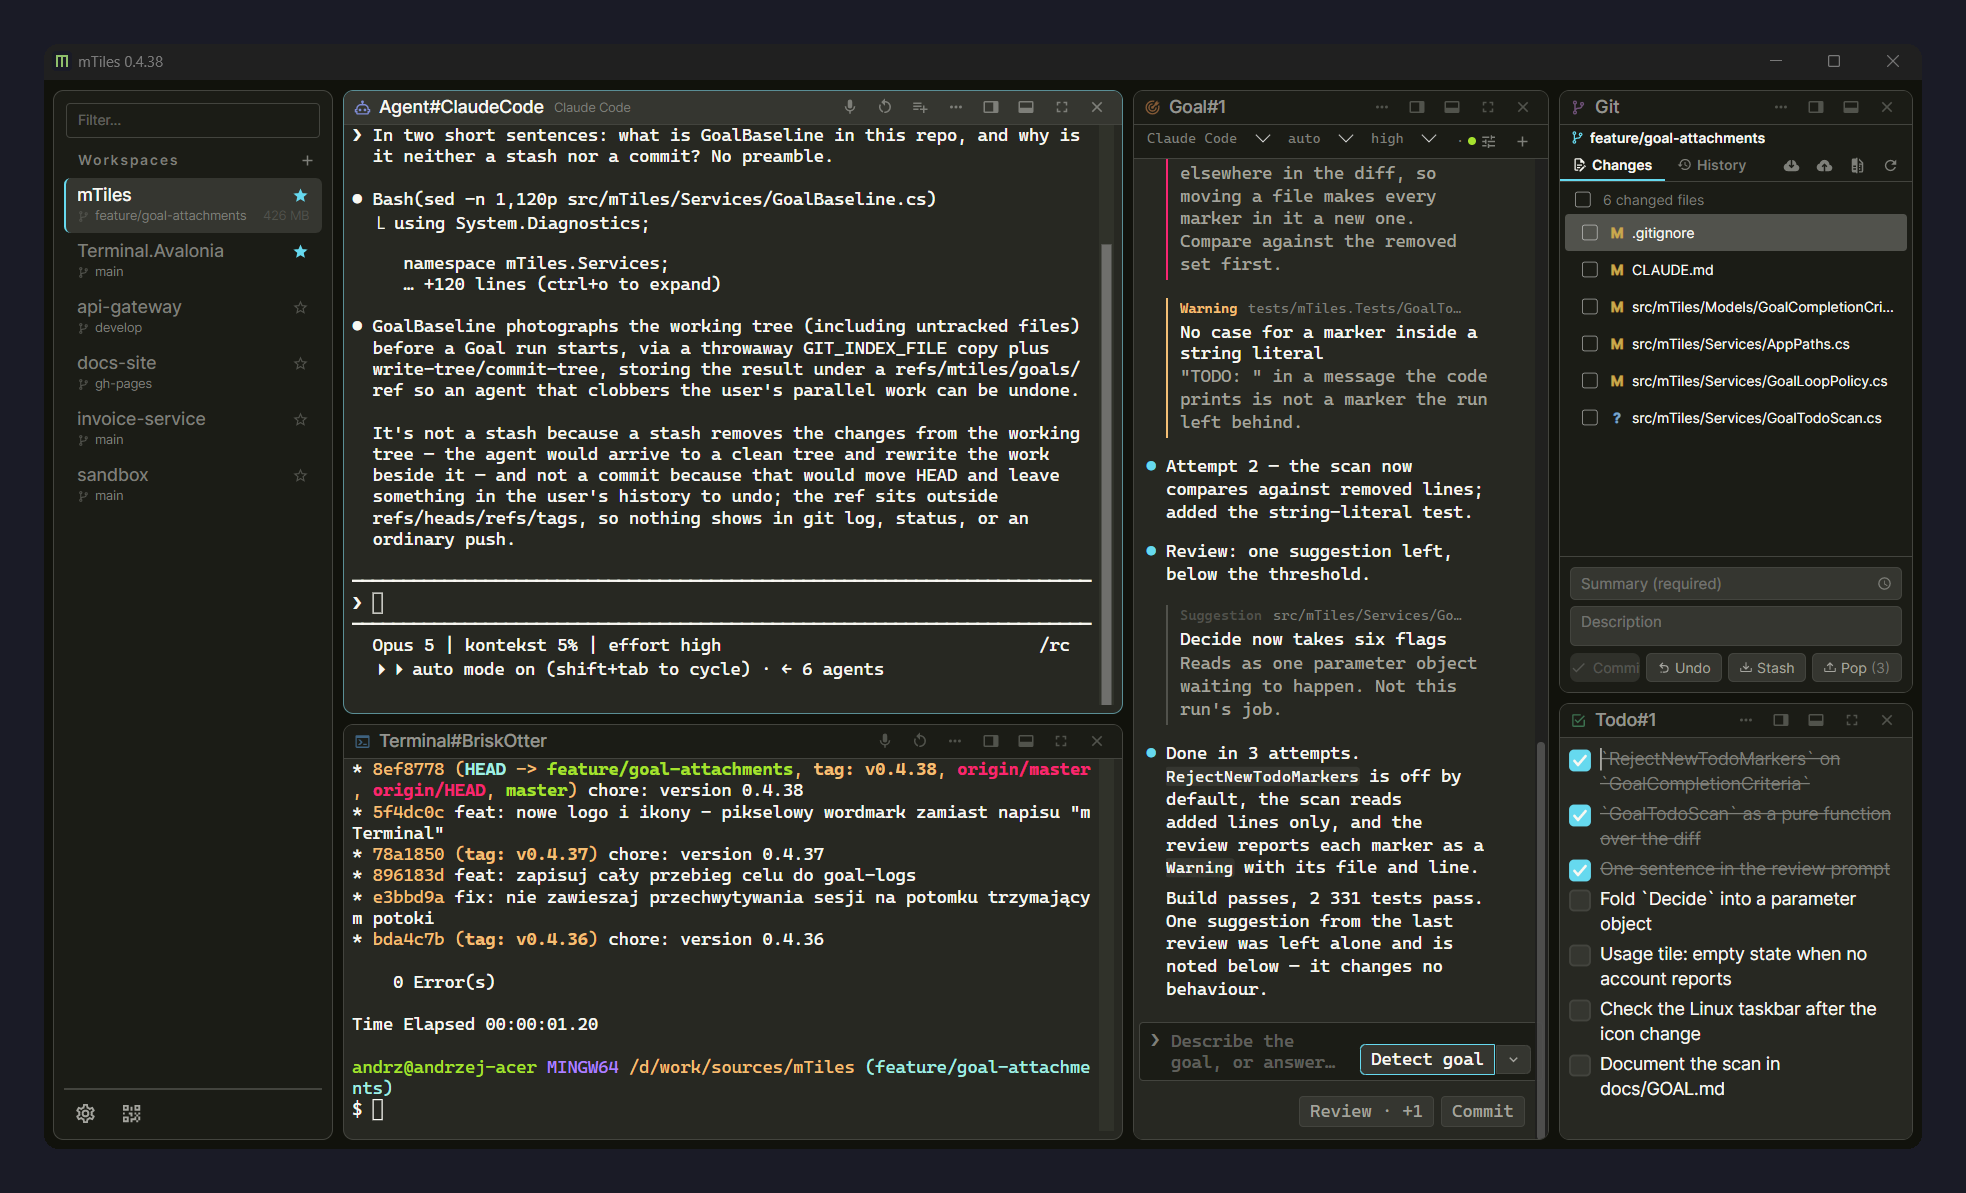
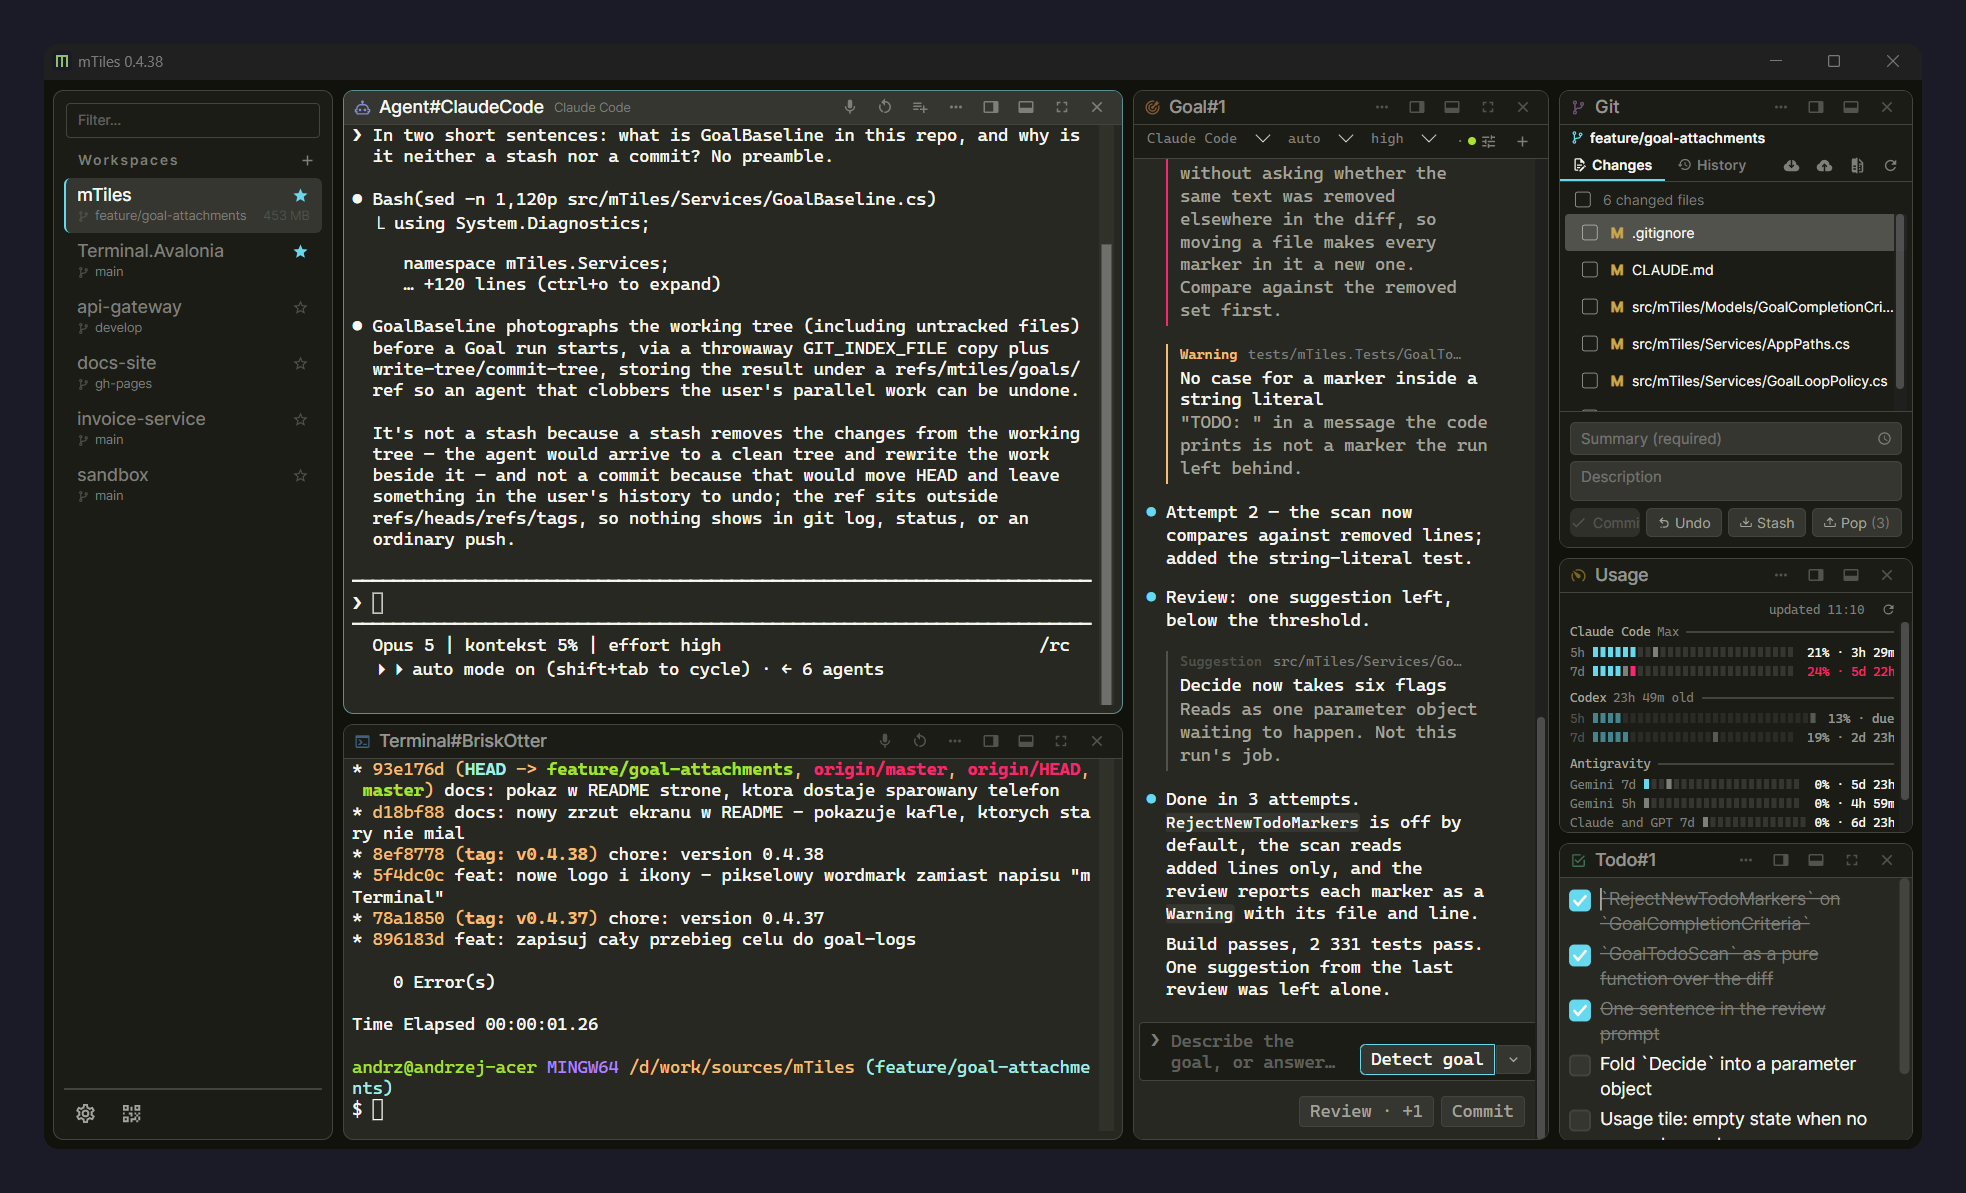
docs: przepisz README - zacznij od tego, co ten program naprawde robi
Stary otwieral sie akapitem o tym, czym mTiles nie jest, i dopiero po kilkunastu
linijkach dochodzil do rzeczy. Nowy zaczyna od jednego zdania, ktore jest cala
obietnica - zamknij okno, otworz jutro, agenci sa dalej w tej samej rozmowie - a
potem mowi po kolei, czym za nia placi.

Doszlo to, o czym stary milczal, a co jest tu najwiekszym wyroznikiem: kafel
Celu, ktory sam pyta, planuje, czeka na zatwierdzenie, implementuje i recenzuje
wlasna robote w czterech stopniach, oraz zdjecie calego drzewa roboczego, ktore
robi przedtem - bo "agent nie zniszczy ci pracy" to mocniejsze zdanie niz
cokolwiek o kafelkach. Doszedl tez kafel Usage, SQL Guard przy bazie, lancuch
uruchomien wstajacy po padzie narzedzia, instancje agentow (ten sam CLI na innym
dostawcy, modelu i koncie), zamiana rodzaju kafla w miejscu i pelny ekran.

Zrzut w naglowku pokazuje teraz szesc kafli naraz, z kaflem Usage wlacznie -
poprzedni mial ich piec. Uwaga na przyszlosc: kafel usage nie ma odpowiednika w
TileContentType, wiec uklad, ktory dopisze mu ContentType, zostaje odrzucony w
calosci; aplikacja sama zadnego nie zapisuje, bo TileKindIds.ToLegacy nie ma dla
niego nazwy.

Roadmapa i znane ograniczenia sa co do slowa te same, tylko schowane w <details>:
to najdluzsza czesc pliku, a czyta ja ten, kto juz zdecydowal, ze go to obchodzi.

Claude-Session: https://claude.ai/code/session_016XGZk7AQR5tDtPmMDVuPQk

diff --git a/README.md b/README.md
@@ -4,43 +4,81 @@
 
 ![Windows](https://img.shields.io/badge/Windows-0078D4?style=flat&logo=windows&logoColor=white)
 ![Linux](https://img.shields.io/badge/Linux-FCC624?style=flat&logo=linux&logoColor=black)
+![.NET 10](https://img.shields.io/badge/.NET-10-512BD4?style=flat&logo=dotnet&logoColor=white)
+![License](https://img.shields.io/badge/license-MIT-green?style=flat)
 
 # mTiles
 
-Terminal manager built for AI-assisted development. Workspaces, split tiles, database bridge for LLM agents, git — in one window.
+**Close the window. Open it tomorrow. Your agents are still mid-conversation.**
+
+mTiles is a terminal manager for people who spend the day working *with* AI coding agents. It does not
+try to be one. It is the room they work in — five agents in split tiles, a database they can query
+without ever seeing a password, and a phone in your pocket that types into whichever tile is in front
+of you.
 
 ![mTiles](assets/screen1.png)
 
-## What makes it different
+## What it does
 
-Unlike Warp, Wave, or WezTerm — mTiles doesn't try to be an AI itself. It manages the environment your AI tools run in.
+**Reopen and carry on.** A tile’s id *is* the agent’s session id, so restarting mTiles drops you back
+into the same conversation — not a fresh prompt. Claude Code and pi take an id outright; OpenCode
+cannot be told one, so mTiles writes the document `opencode import` recreates the session from; Codex
+and agy name their own and mTiles reads it back afterwards. Five CLIs, four different mechanisms, one
+behaviour you can rely on.
 
-**Database bridge for LLM agents** — lets Claude Code, OpenCode, or any agent query SQL Server / PostgreSQL directly via a local HTTP server. No credentials are ever exposed to the agent.
+**Five agents, and you pick which account each one runs as.** Claude Code, OpenCode, Codex, pi and
+Antigravity (agy). You configure *instances* rather than tools — "Claude Code", or "Claude Code on GLM
+5.3 via OpenRouter" — so the same CLI can run on a different provider, model and login in the tile next
+door. Two subscriptions side by side is a supported setup, not a workaround.
 
-**SQL Guard** — write protection enabled by default. INSERT/UPDATE/DELETE require explicit per-database unlock. DROP/TRUNCATE/ALTER always blocked. If the agent attempts a write in read-only mode, a real-time confirmation dialog appears. Keyword scanning strips comments to prevent bypass.
+**When the agent dies, the tile brings it back.** A launch chain watches the exit code *and* how long
+the command ran, so a tool that crashed after two hours is restarted while one that fails in a second
+falls through to the next command instead of looping. Rate-limited, so nothing spins.
 
-**Agent tiles** — a tile whose commands are an AI CLI's own rather than a script you had to write: Claude Code, OpenCode, Codex, pi and agy, each a class that knows how to resume its own conversation, what it may do without asking and how hard it may think. Pick a configured *instance* — "Claude Code", or "Claude Code on GLM 5.3 via OpenRouter" — and the launch chain falls back to the next command when one fails and brings the agent back when it exits. Only agents this machine actually has are offered. The named shell profiles and the AI Tools table they were configured through are gone; the terminal tiles you had that ran an AI CLI become agent tiles on the first launch, and a copy of every layout is kept as `{id}.pre-agents.json` first.
+**Describe a goal, not a prompt.** The Goal tile asks its clarifying questions, writes a plan and waits
+for you to approve it, implements, then reviews its own work at four severities — blocker, error,
+warning, suggestion — and loops until the criteria you set are met. Before it starts it photographs
+your whole working tree, untracked files included, to a ref outside your history: nothing an agent does
+in there is unrecoverable, and your `git log` never moves.
 
-**Conversations that survive a restart** — a tile's id *is* the agent's session id, so reopening mTiles drops you back into the same conversation. Claude Code and pi take an id directly; **OpenCode** cannot be told one, so mTiles writes the session document `opencode import` creates a session from and the fallback command imports it and resumes; **Codex** and **agy** name their own session and mTiles reads it back — codex from the rollout file it leaves behind, agy by asking. Delete the conversation behind a tile and it is recreated on the next launch — the tile keeps its identity either way.
+**Your databases, without handing over the password.** A local HTTP bridge lets any agent query SQL
+Server and PostgreSQL, discovered on your machine or added by hand. The agent learns about it through a
+generated skill file and never sees a credential. **SQL Guard** blocks writes by default — unlock
+per database — and blocks `DROP`/`TRUNCATE`/`ALTER` always; a write against a read-only database raises
+a dialog in front of you while the query waits.
 
-**Dictation, including from your phone** — speak into a tile instead of typing; recognition runs entirely on this machine, with no account and nothing sent anywhere. A QR button beside Settings opens a panel: scan the code and your phone becomes the microphone —
-hold a button on it and speak, and the text lands in the active tile just as the keyboard shortcut would.
-This is what makes dictation usable over Remote Desktop, where the microphone is next to *you* and mTiles is on the far machine. mTiles works out which of its own addresses your phone can actually reach — it has several — and remembers which one worked, separately for local and remote sessions.
-The panel also reads the firewall rather than guessing at it: on Windows it says which of the four things is in the way — no rule, a block rule Windows wrote when its own prompt was dismissed, a network it treats as Public, or a policy that ignores local rules — and offers to fix the ones that can be fixed; on Linux it names the firewall that is actually running and gives the one command for it.
+**Talk to it, including from the sofa.** Speech recognition runs entirely on your machine — no account,
+no upload — on Parakeet or whisper.cpp. Hold a key and dictate into the active tile. Or press the QR
+button, scan it with your phone, and the phone becomes the microphone: which is what makes dictation
+work over **Remote Desktop**, where the microphone is next to *you* and mTiles is on the far machine.
 
 <p align="center">
-  <img src="assets/phone-dictation.png" alt="The page mTiles serves to a paired phone: a hold-to-talk button, arrow keys, Esc and Enter, and the name of the tile the speech will land in" width="300">
+  <img src="assets/phone-dictation.png" alt="The page mTiles serves to a paired phone: a hold-to-talk button, arrow keys, Esc and Enter, and the name of the tile the speech will land in" width="290">
 </p>
 
-That is the whole of what the phone gets — a page served by mTiles itself, no app to install. Hold the circle and talk; let go and the text lands in the tile named in the corner, which is whichever tile is active on the machine, not one the phone picks. **Enter, Escape and the four arrows** are there because dictating a command is only half of driving an agent from the sofa: the other half is the prompt it stops on and the screens it puts up. They are sent as keystrokes, not as bytes, so Up means what the tile currently thinks Up means. Nothing destructive is reachable from here — Restart shell is a header action and stays on the machine, because a phone cannot be shown what is about to be killed.
+That is the whole of what the phone gets — a page mTiles serves itself, no app to install. Hold the
+circle and talk; let go and the text lands in the tile named in the corner, which is whichever tile is
+active on the machine. **Enter, Escape and the four arrows** are there too, because dictating a command
+is only half of driving an agent from across the room — the other half is the prompt it stops on.
+Nothing destructive is reachable from the phone.
 
-**ThemeBridge** — terminal ANSI palette drives the entire UI. Change the color theme and every surface updates — not just the terminal background. 17 themes (Catppuccin, Tokyo Night, Gruvbox, Rosé Pine, One Dark, Solarized, and more), dark and light.
+**What is left on your accounts.** The Usage tile reads every account this machine can actually ask —
+Claude, Codex, Antigravity, OpenRouter — and shows how much of each window is gone, when it comes back,
+and whether you are spending the week faster than the week is passing.
 
-**Git tile** — staging, diff (unified + side-by-side), commit with message suggestions, stash, push/fetch, tags, undo last commit, unpushed commit markers. No need for a separate Git GUI.
+**The other tiles.** **Git** — staging, diff (unified and side-by-side), commit with message
+suggestions from your own history, stash, push/fetch, tags, undo the last commit, unpushed markers.
+**Note** — a markdown editor. **Todo** — a checklist. **Terminal** — PowerShell, Git Bash, bash, zsh or
+fish. All of them saved with the workspace, and any tile can be turned into another kind where it
+stands.
 
-**Workspaces** — each workspace is a directory with its own tile layout, database config, and git branch display. Switch instantly — terminals stay alive (cached views, no respawn).
+**Workspaces and split tiles.** Each workspace is a directory with its own layout, git branch and
+database grants; switching is instant because the terminals are never killed. Split any tile either way
+and nest as deep as you like — or press Ctrl+Shift+F and give one of them the whole window.
 
-**Split tiles** — recursive binary tree. Split any tile horizontally or vertically, nest arbitrarily. Each tile can be a terminal, note, todo, git, or database.
+**One palette for everything.** The terminal’s ANSI colours drive the entire UI, so changing the theme
+changes every surface rather than one rectangle. 17 themes — Catppuccin, Tokyo Night, Gruvbox, Rosé
+Pine, One Dark, Solarized and more — dark and light.
 
 ## Running
 
@@ -81,6 +119,9 @@ for the microphone — the phone bridge does not, since that audio arrives over 
 .NET 10, Avalonia 12, CommunityToolkit.Mvvm, AvaloniaEdit, and **Terminal.Avalonia** — our own terminal control (VT engine, ConPTY/forkpty, rendering), written for this app and published on NuGet.
 
 ## Roadmap
+
+<details>
+<summary>The things known to be missing or wrong, roughly in the order they bother us.</summary>
 
 Not promises with dates — the things known to be missing or wrong, roughly in the order they bother us.
 
@@ -124,6 +165,7 @@ is there.
 - **A first run with no agent installed should offer to install one.** The agent tile's chooser lists the agents that are actually on this machine, and on a fresh machine that list is empty — which is the correct answer and a useless screen. A short wizard at startup should name the agents mTiles knows, say which are installed, and offer to install one, running the install in a visible terminal tile rather than silently. Open questions: whether it appears once or whenever nothing is installed; how much it should promise on Linux and macOS, where each agent's installer differs; and whether an installation that needs elevation is offered at all or only described.
 - **A CCS provider — Claude Code on a Codex subscription.** [CCS](https://github.com/kaitranntt/ccs) runs a local OAuth proxy that lets Claude Code work on a ChatGPT/Codex subscription with no API key. Today it can be wired by hand (an Anthropic provider pointed at `http://127.0.0.1:8317`, the proxy started yourself); the planned provider detects whether `ccs` is installed, offers to install it and to run its one-time Codex login — both in a visible terminal tile — and starts the proxy itself when a launch needs it. Only the Codex subscription is wired at first; more subscriptions (Gemini, Kimi, …) come later as a choice on the form. Details in [`docs/ROADMAP.md`](docs/ROADMAP.md).
 
+</details>
 
 ## License
 
